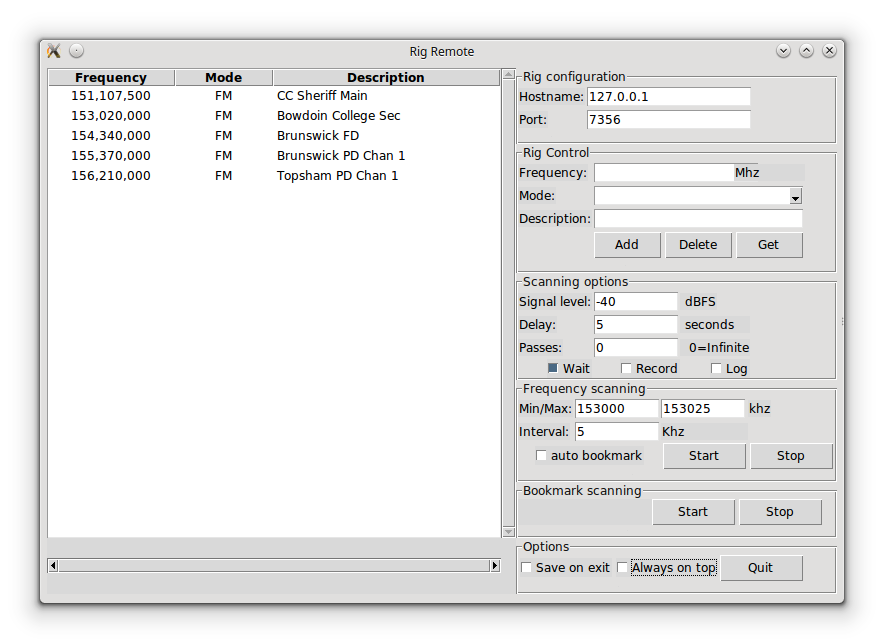
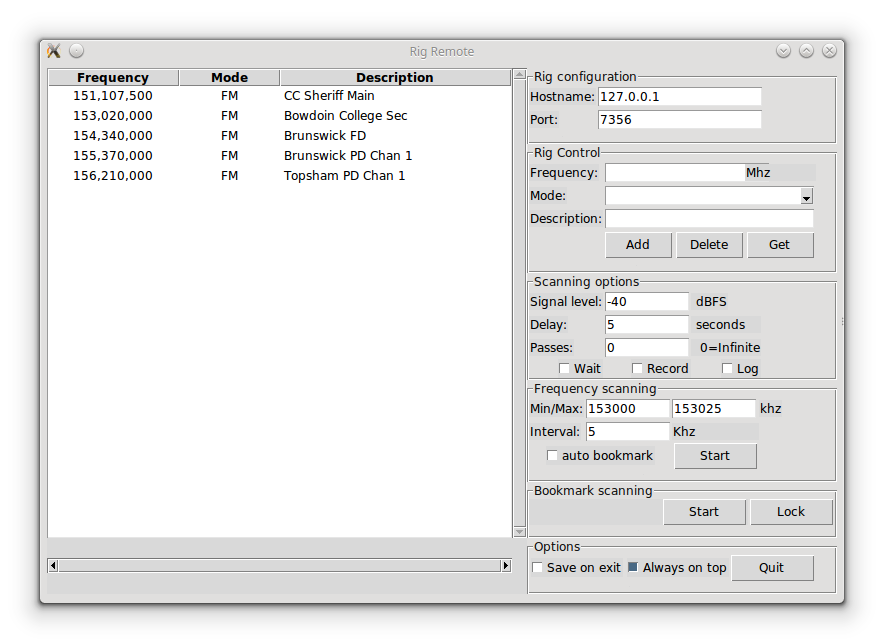
Changed scanning "start/stop" to toggle, added "Lock" to UI, error handling to scan
Removed "stop" button and use a "toggle" function for start/stop of scanning. Add "lock" button to UI as
placeholder, but haven't implemented lockout yet. Added simple comm error checking to scan functions.

diff --git a/modules/ui.py b/modules/ui.py
@@ -25,7 +25,10 @@ TAS - Tim Sweeney - mainetim@gmail.com
                    frequency scanning to match. Also need to implement
                    changes in delay code (to allow for wait on signal).
 2016/02/19 - TAS - Added frequency scan "Stop" button.
-2016/02/20 - TAS - Added "wait" button. See scanning.py for notes.
+2016/02/20 - TAS - Added "wait" checkbox. See scanning.py for notes.
+2016/02/22 - TAS - Removed "stop" button and use a "toggle" function for
+                   start/stop of scanning. Add "lock" button to UI as 
+                   placeholder, but haven't implemented lockout yet.
 
 """
 
@@ -52,6 +55,7 @@ from Tkinter import LabelFrame
 from Tkinter import Label
 import tkMessageBox
 import threading
+import itertools
 
 # logging configuration
 logger = logging.getLogger(__name__)
@@ -72,6 +76,7 @@ class RigRemote(ttk.Frame):  #pragma: no cover
         # bookmarks loading on start
         self.bookmark("load", ",")
         self.scan_thread = None
+        self.scan_mode = None
         self.scanning = None
 
 
@@ -366,21 +371,14 @@ class RigRemote(ttk.Frame):  #pragma: no cover
                        column=3,
                        #rowspan=3,
                        stick=tk.NSEW)
-        self.freq_scan_start = ttk.Button(self.freq_scanning_menu,
-                                          text="Start",
-                                          command=self.frequency_start)
-        self.freq_scan_start.grid(row=16,
-                                  column=2,
-                                  columnspan=1,
-                                  padx=2,
-                                  sticky=tk.W)
 
-        self.freq_scan_stop = ttk.Button(self.freq_scanning_menu,
-                                          text="Stop",
-                                          command=self.frequency_stop,
+
+        self.freq_scan_toggle = ttk.Button(self.freq_scanning_menu,
+                                          text="Start",
+                                          command=self.frequency_toggle,
                                           )
-        self.freq_scan_stop.grid(row=16,
-                                  column=3,
+        self.freq_scan_toggle.grid(row=16,
+                                  column=2,
                                   columnspan=1,
                                   padx=2,
                                   sticky=tk.W)
@@ -470,21 +468,21 @@ class RigRemote(ttk.Frame):  #pragma: no cover
                                column=2,
                                sticky=tk.NSEW)
 
-        self.book_scan_start = ttk.Button(self.book_scanning_menu,
+        self.book_scan_toggle = ttk.Button(self.book_scanning_menu,
                                           text="Start",
-                                          command=self.bookmark_start,
+                                          command=self.bookmark_toggle,
                                           )
-        self.book_scan_start.grid(row=18,
+        self.book_scan_toggle.grid(row=18,
                                   column=2,
                                   columnspan=1,
                                   padx=2,
                                   sticky=tk.W)
 
-        self.book_scan_stop = ttk.Button(self.book_scanning_menu,
-                                          text="Stop",
-                                          command=self.bookmark_stop,
+        self.book_lockout = ttk.Button(self.book_scanning_menu,
+                                          text="Lock",
+                                          command=self.bookmark_lockout,
                                           )
-        self.book_scan_stop.grid(row=18,
+        self.book_lockout.grid(row=18,
                                   column=3,
                                   columnspan=1,
                                   padx=2,
@@ -634,32 +632,24 @@ class RigRemote(ttk.Frame):  #pragma: no cover
                 bookmarks.row_list.append(values)
             bookmarks.csv_save(self.bookmarks_file, delimiter)
 
-    def bookmark_start(self):  #pragma: no cover
-        """Wrapper around _scan() that starts a scan from bookmarks.
-        """
+    def bookmark_toggle(self, icycle=itertools.cycle(["Stop", "Start"])):
+        if self.scan_mode == None or self.scan_mode == "bookmarks" :
+            action = self.book_scan_toggle.cget('text').lower()
+            self.book_scan_toggle.config(text = next(icycle))
+            self._scan("bookmarks", action)
 
-        self._scan("bookmarks", "start")
-
-    def bookmark_stop(self):  #pragma: no cover
-        """Wrapper around _scan() that starts a scan from bookmarks.
-
-        """
-
-        self._scan("bookmarks", "stop")
-
-    def frequency_start(self):  #pragma: no cover
-        """Wrapper around _scan() that starts a scan from a frequency range.
-        """
-
-        self._scan("frequency", "start")
-
-
-    def frequency_stop(self):  #pragma: no cover
+    def bookmark_lockout(self):  #pragma: no cover
         """Wrapper around _scan() that starts a scan from bookmarks.
 
         """
+        pass
+#        self._scan("bookmarks", "stop")
 
-        self._scan("frequency", "stop")
+    def frequency_toggle(self, icycle=itertools.cycle(["Stop", "Start"])):
+        if self.scan_mode == None or self.scan_mode == "frequency" : 
+            action = self.freq_scan_toggle.cget('text').lower()
+            self.freq_scan_toggle.config(text = next(icycle))
+            self._scan("frequency", action)
 
     def _scan(self, mode, action):  #pragma: no cover
         """Wrapper around the scanning class instance. Creates the task
@@ -680,6 +670,7 @@ class RigRemote(ttk.Frame):  #pragma: no cover
         if action.lower() == "stop" and self.scan_thread != None:
             self.scanning.terminate()
             self.scan_thread = None
+            self.scan_mode = None
             return
         
         if (action.lower() == "start" and self.scan_thread != None) :
@@ -687,6 +678,7 @@ class RigRemote(ttk.Frame):  #pragma: no cover
         if (action.lower() == "stop" and self.scan_thread == None) :
             return
 
+        self.scan_mode = mode.lower()
         bookmark_list = []
         for item in self.tree.get_children():
             values = self.tree.item(item).get('values')
@@ -712,10 +704,14 @@ class RigRemote(ttk.Frame):  #pragma: no cover
             wait = True
         else:
             wait = False
+        if mode == "frequency" :
+            button = self.freq_scan_toggle
+        else :
+            button = self.book_scan_toggle
 
         scanning_task = ScanningTask(mode,
                                      bookmark_list,
-                                     self.book_scan_stop,
+                                     button,
                                      min_freq,
                                      max_freq,
                                      delay,

diff --git a/modules/scanning.py b/modules/scanning.py
@@ -35,6 +35,7 @@ TAS - Tim Sweeney - mainetim@gmail.com
                    the frequency has been been clear for "Delay" seconds.
                    When off, scanning will resume after "Delay" seconds no
                    matter if a signal is still present or not.
+2016/02/21 - TAS - Added error handling for initial rig_control call.
                    
 """
 from modules.rigctl import RigCtl
@@ -186,7 +187,12 @@ class Scanning(object):
             while freq < task.range_max:
                 logger.info("Tuning to {}".format(freq))
                 logger.info("Interval:{}".format(task.interval))
-                rigctl.set_frequency(freq)
+                try :
+                    rigctl.set_frequency(freq)
+                except Exception :
+                    logger.warning("Communications Error!")
+                    self.scan_active  = False
+                    break
                 time.sleep(TIME_WAIT_FOR_TUNE)
 
                 if self._signal_check(task.sgn_level, rigctl):
@@ -256,7 +262,12 @@ class Scanning(object):
         while (self.scan_active == True):
             for bookmark in task.bookmark_list:
                 logger.info("Tuning to {}".format(bookmark[0]))
-                rigctl.set_frequency(bookmark[0].replace(',', ''))
+                try:
+                    rigctl.set_frequency(bookmark[0].replace(',', ''))
+                except Exception :
+                    logger.warning("Communications Error!")
+                    self.scan_active  = False
+                    break
                 time.sleep(TIME_WAIT_FOR_TUNE)
                 if self._signal_check(task.sgn_level, rigctl):
                     logger.info(

diff --git a/modules/rigctl.py b/modules/rigctl.py
@@ -44,7 +44,7 @@ class RigCtl(object):
         """
 
         logger.info("Connecting the rig at: {}:{}".format(self.hostname,
-                                                            self.port))
+                                                          self.port))
         con = telnetlib.Telnet(self.hostname, self.port)
         con.write(('%s\n' % request).encode('ascii'))
         response = con.read_some().decode('ascii').strip()
